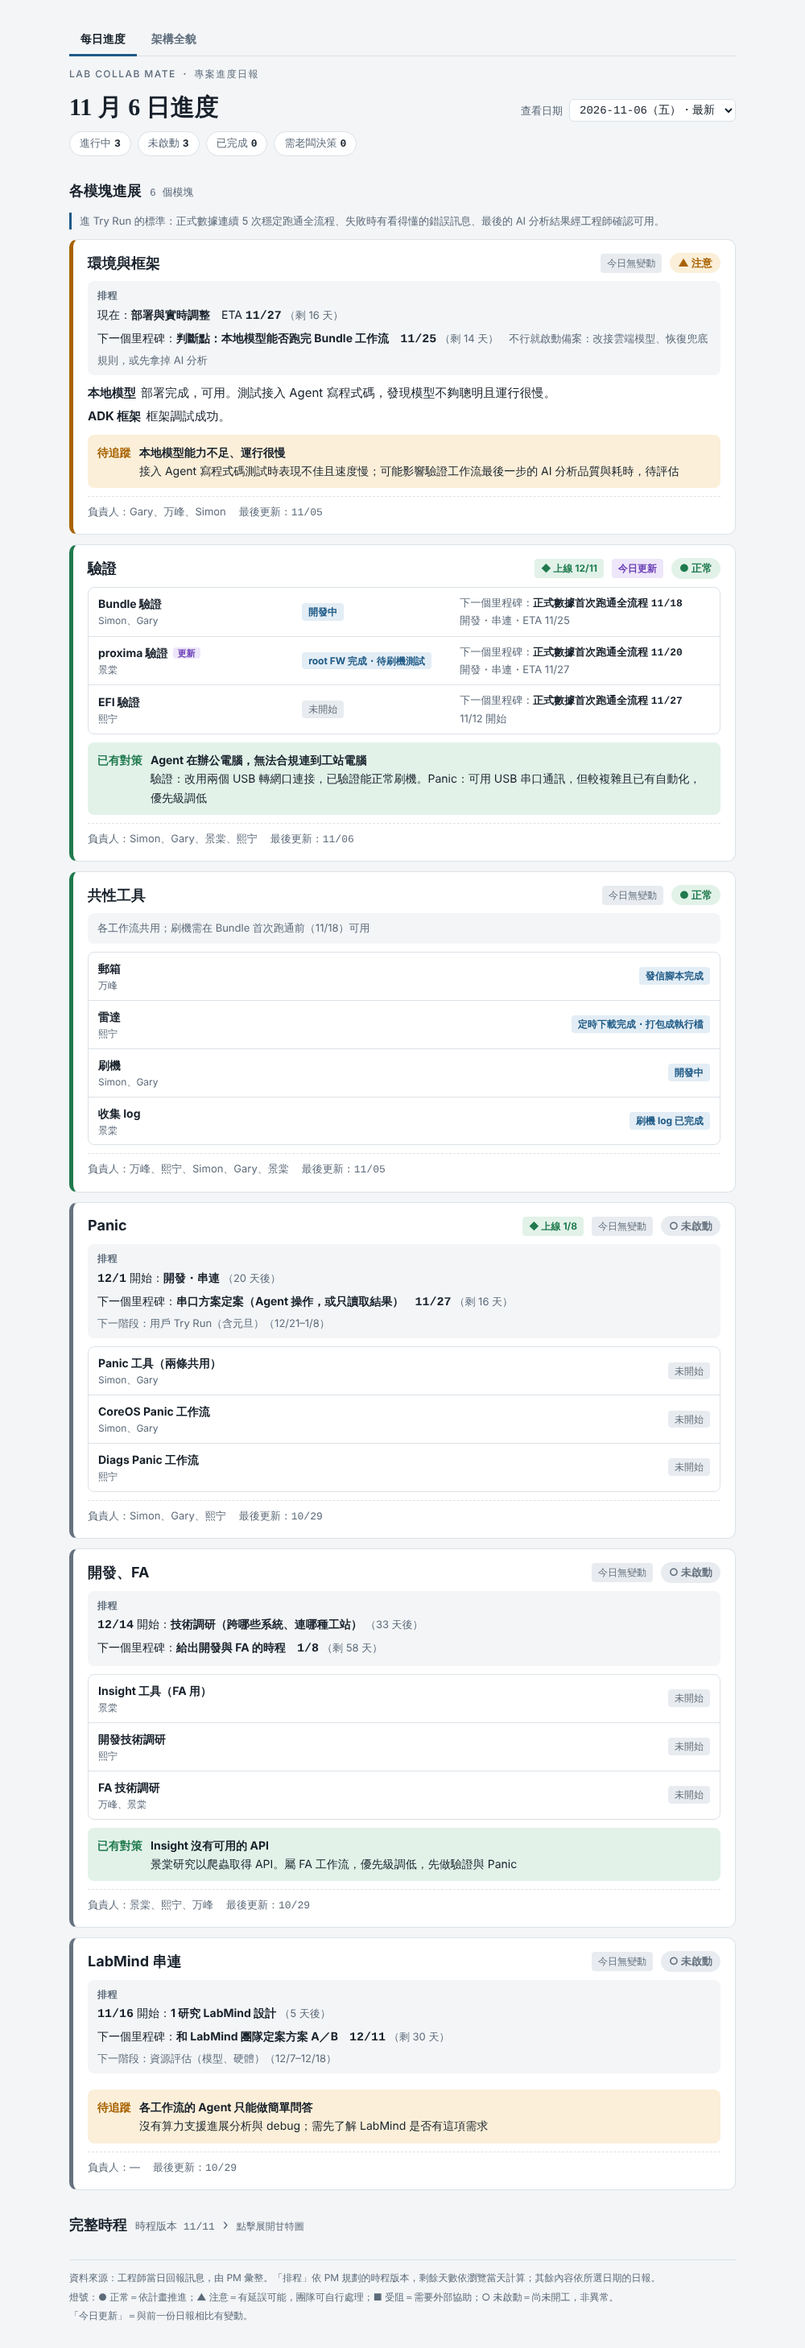
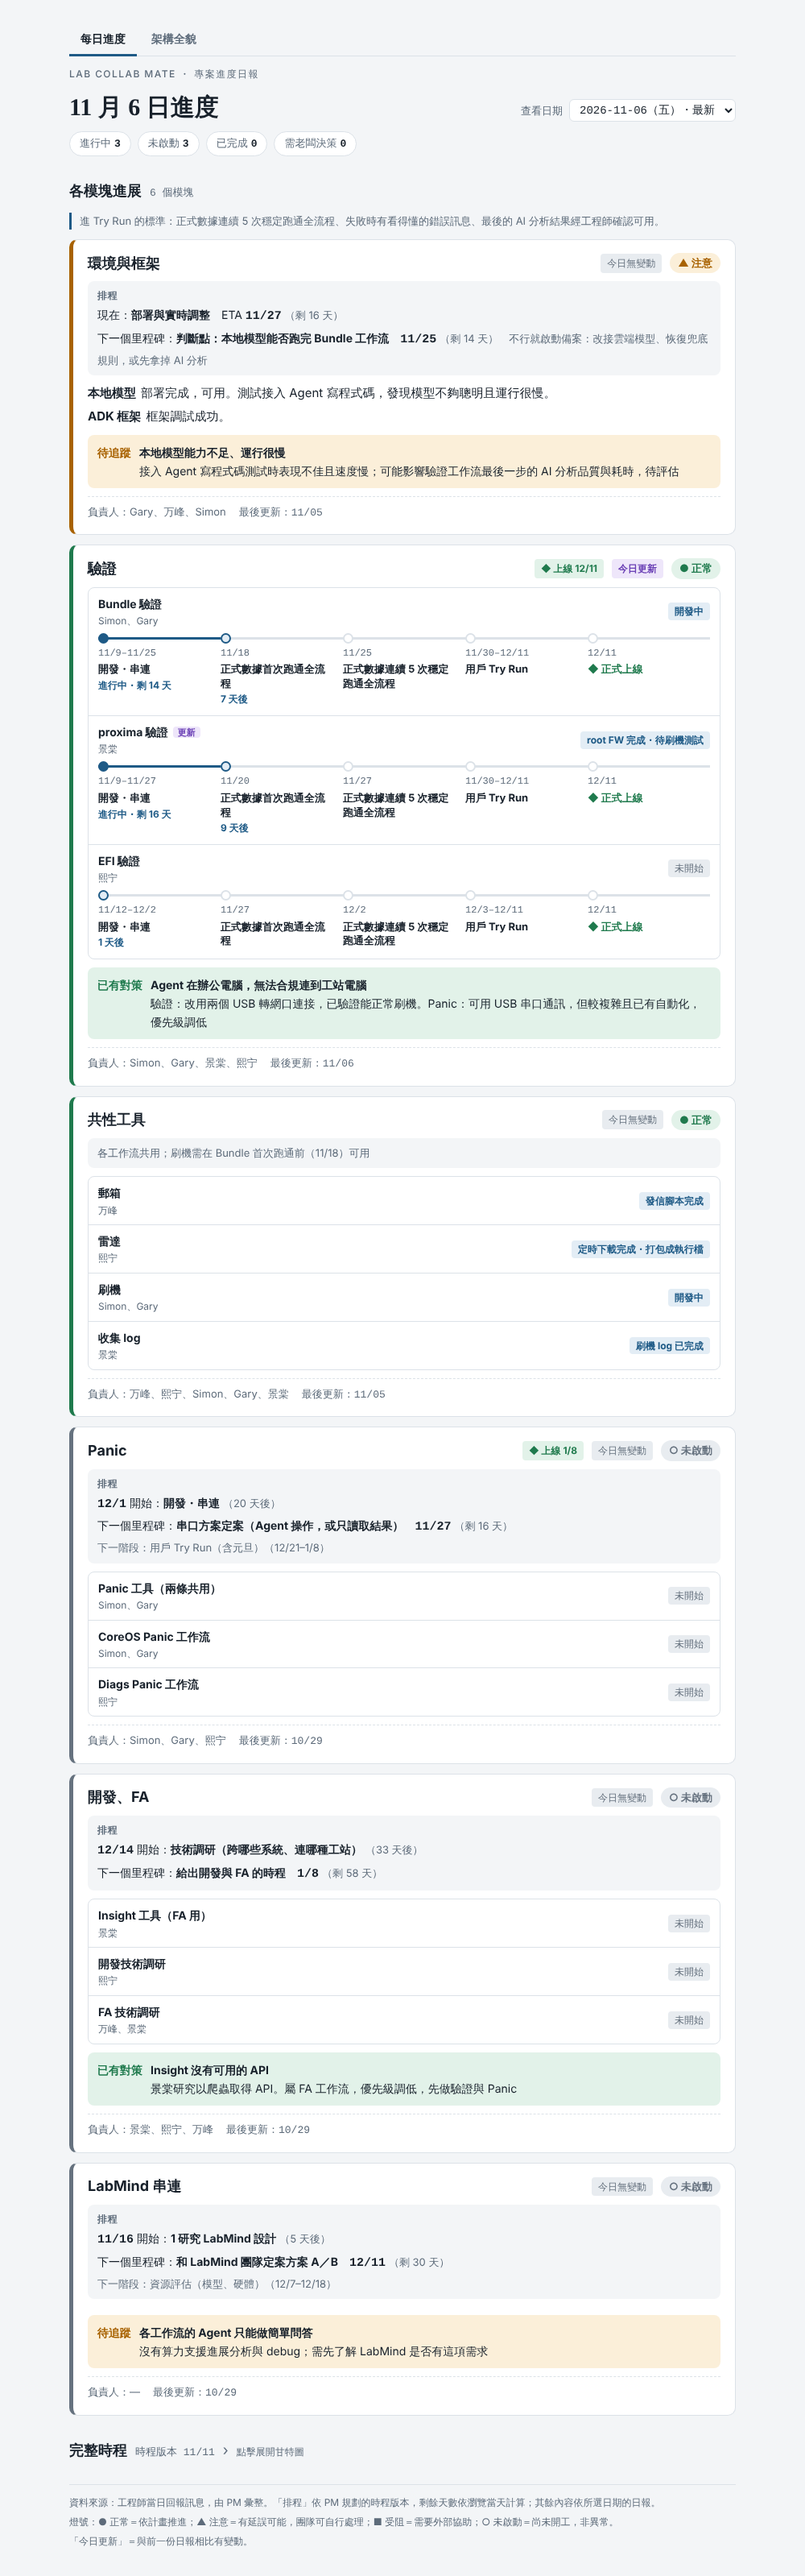
[2026-11-11_dashboard-schedule-and-arch-tab] 驗證模塊列出每條工作流的關鍵步驟
Claude-Session: https://claude.ai/code/session_01HY2PekBDQgaxvznQLxGhAu

diff --git a/public/index.html b/public/index.html
@@ -213,14 +213,27 @@ footer{font-size:12px;color:var(--muted);border-top:1px solid var(--line);paddin
 .prog{display:flex;flex-direction:column;gap:4px;margin:0;font-size:15px;max-width:72ch}
 .prog b{margin-right:6px}
 .mrows{display:flex;flex-direction:column;border:1px solid var(--line);border-radius:8px}
-.mrow{display:grid;grid-template-columns:minmax(0,1fr) 13em minmax(0,1.3fr);gap:4px 14px;padding:8px 12px;border-top:1px solid var(--line);align-items:center;font-size:14px}
+.mrow{display:grid;grid-template-columns:minmax(0,1fr) auto;gap:4px 14px;padding:8px 12px;border-top:1px solid var(--line);align-items:center;font-size:14px}
 .mrow.two{grid-template-columns:minmax(0,1fr) auto}
 .mrow:first-child{border-top:0}
 .mrow .nm{font-weight:700;min-width:0}
 .mrow .nm small{display:block;font-weight:400;color:var(--muted);font-size:12px}
 .mrow .nm i{white-space:nowrap;font-style:normal;font-size:11px;font-weight:700;color:var(--new);background:var(--new-soft);padding:0 6px;border-radius:4px;margin-left:6px;vertical-align:1px}
 .mrow .nx{font-size:13px;color:var(--muted);min-width:0;border-top:0;padding-top:0}
-.mrow:not(.two) .st{justify-self:start;white-space:normal}
+.mrow .st{white-space:normal;text-align:right}
+.stepper{grid-column:1 / -1;list-style:none;margin:6px 0 2px;padding:0;display:grid;grid-template-columns:repeat(auto-fit,minmax(118px,1fr));gap:0}
+.stepper li{position:relative;border-top:3px solid var(--line);padding:8px 10px 0 0;display:flex;flex-direction:column;gap:1px;min-width:0;font-size:13px}
+.stepper li::before{content:"";position:absolute;top:-8px;left:0;width:9px;height:9px;border-radius:50%;background:var(--surface);border:2px solid var(--line)}
+.stepper .sd{font-size:12px;color:var(--muted)}
+.stepper .sn{font-weight:700;line-height:1.35}
+.stepper .sg{font-size:12px;font-weight:700;color:var(--accent)}
+.stepper li.past{color:var(--muted)}
+.stepper li.past .sn{font-weight:500}
+.stepper li.past::before{background:var(--idle);border-color:var(--idle)}
+.stepper li.now{border-top-color:var(--accent)}
+.stepper li.now::before{background:var(--accent);border-color:var(--accent)}
+.stepper li.next::before{border-color:var(--accent);background:var(--accent-soft)}
+.stepper li.live .sn{color:var(--ok)}
 .mrow .nx b{color:var(--fg)}
 .livepill{font-size:12px;font-weight:700;color:var(--ok);background:var(--ok-soft);padding:2px 8px;border-radius:4px;white-space:nowrap}
 .card[data-s="idle"] .prog{color:var(--muted)}
@@ -231,6 +244,12 @@ footer{font-size:12px;color:var(--muted);border-top:1px solid var(--line);paddin
 @media (max-width:520px){
   .mrow{grid-template-columns:minmax(0,1fr) auto}
   .mrow .nx{grid-column:1 / -1}
+  .stepper{grid-template-columns:1fr;margin-left:5px}
+  .stepper li{border-top:0;border-left:3px solid var(--line);padding:0 0 10px 14px;flex-direction:row;flex-wrap:wrap;gap:0 8px;align-items:baseline}
+  .stepper li:last-child{padding-bottom:0}
+  .stepper li::before{top:3px;left:-8px}
+  .stepper li.now{border-left-color:var(--accent)}
+  .stepper .sd{min-width:7.5em}
 }
 </style>
 </head>
@@ -466,10 +485,18 @@ function schedHTML(tr){
   if (I.nx) out.push(`<div class="dim">下一階段：${esc(I.nx.n)}（${rng(I.nx)}）</div>`);
   return `<div class="sched"><span class="lbl">排程</span>${out.join("")}</div>`;
 }
-function rowNext(tr){
-  const I = trackInfo(tr);
-  const now = I.cur.length ? `${esc(I.cur[0].n)}・ETA ${mdd(I.cur[0].e)}` : I.nxt && I.nxt.s ? `${mdd(I.nxt.s)} 開始` : "";
-  return `<span class="nx">${I.m ? `下一個里程碑：<b>${esc(I.m[1])}</b> <b class="mono">${mdd(I.m[0])}</b>` : ""}${now ? `<br>${now}` : ""}</span>`;
+/* 工作流的關鍵步驟：開發・串連 → 首次跑通 → 連續 5 次穩定跑通 → Try Run → 上線，依日期排序；標出已過／進行中／下一步 */
+function rowSteps(tr){
+  const items = [
+    ...tr.steps.filter(x => x.s).map(x => ({d:dn(x.s), end:dn(x.e), date:rng(x), n:x.kind === "try" ? "用戶 Try Run" : x.n, range:true})),
+    ...[...(tr.ms||[]), ...tr.steps.flatMap(x => x.ms||[])].map(m => ({d:dn(m[0]), end:dn(m[0]), date:mdd(m[0]), n:(m[2] === "live" ? "◆ " : "") + m[1], k:m[2]}))
+  ].sort((a,b) => a.d - b.d || (a.range ? -1 : 1));
+  const nextIdx = items.findIndex(x => x.end >= TODAY && !(x.range && x.d <= TODAY));
+  return `<ol class="stepper">${items.map((x,i) => {
+    const st = x.end < TODAY ? "past" : x.range && x.d <= TODAY ? "now" : i === nextIdx ? "next" : "";
+    const tag = st === "now" ? `進行中・${left(x.end)}` : st === "next" ? (x.d === TODAY ? "今天" : `${x.d - TODAY} 天後`) : "";
+    return `<li class="${st}${x.k === "live" ? " live" : ""}"><span class="sd mono">${x.date}</span><span class="sn">${esc(x.n)}</span>${tag ? `<span class="sg">${tag}</span>` : ""}</li>`;
+  }).join("")}</ol>`;
 }
 
 function render(){
@@ -503,7 +530,7 @@ function render(){
       ${M.note ? `<div class="sched"><span class="dim">${esc(M.note)}</span></div>` : ""}
       ${x.rows.length ? `<div class="mrows">${x.rows.map(s => `<div class="mrow${s.track ? "" : " two"}">
           <span class="nm">${esc(s.label || s.item)}${rowChanged(s) ? `<i>更新</i>` : ""}<small>${esc(s.owner)}</small></span>
-          <span class="st ${s.k}">${esc(s.lab)}</span>${s.track ? rowNext(TRACK(s.track)) : ""}</div>`).join("")}</div>` : ""}
+          <span class="st ${s.k}">${esc(s.lab)}</span>${s.track ? rowSteps(TRACK(s.track)) : ""}</div>`).join("")}</div>` : ""}
       ${x.issues.map(issueHTML).join("")}
       <div class="foot"><span>負責人：${esc(x.owners || "—")}</span><span>最後更新：<span class="mono">${md(x.last)}</span></span></div>
     </article>`;

diff --git a/work/2026-11-11_dashboard-schedule-and-arch-tab/STATUS.md b/work/2026-11-11_dashboard-schedule-and-arch-tab/STATUS.md
@@ -1,6 +1,6 @@
 # 日報頁改版：模塊卡（時程＋進展合併）、可收合甘特圖、架構全貌分頁
 
-- **狀態**：已上線（2026-11-11 合併 main）。剩餘待確認事項見下方。
+- **狀態**：已上線；驗證模塊關鍵步驟在分支，待確認後上線。
 - **開始**：2026-11-11
 - **最後更新**：2026-11-11
 - **交付物**
@@ -82,6 +82,10 @@
 7. 架構分頁方案 B 的標題仍是「待確認池」，架構頁已決議改名「承接池」，要不要一起改？
 
 ## 過程紀錄（由新到舊）
+
+### 2026-11-11（第十一段）
+- 使用者要求驗證模塊列出所有關鍵步驟。每條工作流下方加步驟條：開發・串連 → 正式數據首次跑通全流程 → 正式數據連續 5 次穩定跑通全流程 → 用戶 Try Run → 正式上線，附日期；依瀏覽當天標出已過／進行中／下一步（含剩餘天數）。手機改成直式。
+- 步驟狀態依計畫日期判斷，還不會反映工程師實際是否達成。
 
 ### 2026-11-11（第十段）
 - 使用者確認上線，分支合併進 main 並推送，觸發自動部署。
